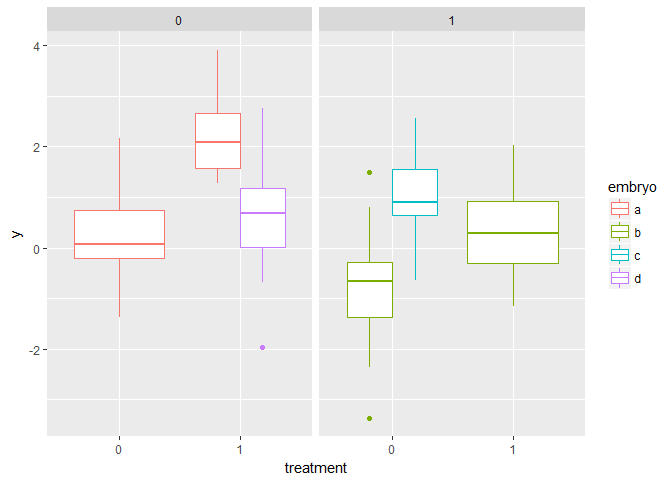
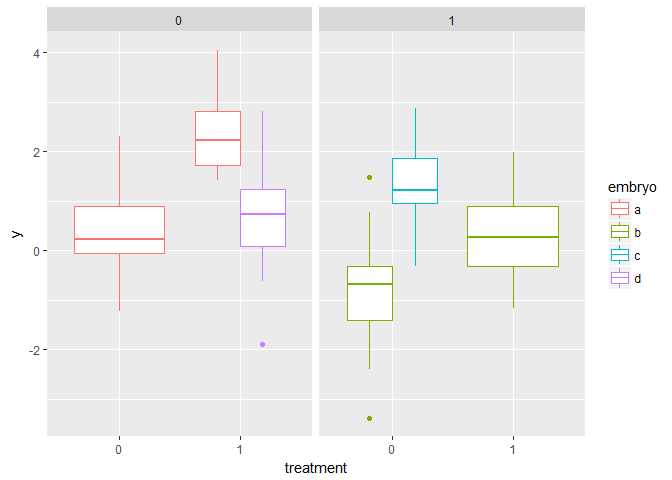
revision, scaled random effects to have mean 0

diff --git a/pseudoreplication.md b/pseudoreplication.md
@@ -6,12 +6,12 @@ Bindoff, A.
 Pseudoreplication and mixed models
 ----------------------------------
 
-We simulate a lab experiment that takes cells from four mouse embryos, and two mothers. Investigators are blinded, and some cells end up having a treatment applied and others do not. The investigator has no knowledge of which embryo (or mother) the cells came from until after the experiment. A measure `y` is observed for each cell (we don't know exactly what `y` is but it's continuous, and normally distributed).
+We simulate a lab experiment that takes cells from four mouse embryos, which are from two mothers. Under blinded conditions, some cells have a treatment applied and the remainder serve as controls. The investigator has no knowledge of which embryo (or mother) the cells came from until after the experiment. A continuous, and normally distributed measure `y` is taken of each cell.
 
 ``` r
 mean.treatment.effect <- 1.5
 sd.treatment <- sd.control <- 1
-random.embryo.effect <- c(0, -1, 1, -0.5)
+random.embryo.effect <- scale(c(0, -1, 1, -0.5))
 random.mother.effect <- 0
 
 df <- data.frame(embryo = factor(c(rep("a", n*10),
@@ -52,9 +52,11 @@ xtabs(~ embryo + treatment, df)
     ##      c 10  0
     ##      d  0 20
 
-The first issue we can see is that cells from embryo `c` were allocated only to the control condition, and cells from embryo `d` were allocated only to the treatment condition so any effect of `treatment` might be confounded by `embryo` for these observations. If we consider only embryo `a` and `b`, we have an unbalanced design. Additionally, there is a strong random effect for embryos `b` and `c`. We're missing information about the `treatment` effect of `c` so this might affect our estimate of the random effect of embryo `c`.
+The first issue we can see is that cells from embryo `c` were allocated only to the control condition, and cells from embryo `d` were allocated only to the treatment condition so any effect of `treatment` might be confounded by `embryo` for these observations (or perhaps the effect of `embryo` might be confounded by `treatment`?) If we consider only embryo `a` and `b`, we have an unbalanced design. Additionally, there is a strong effect for embryos `b` and `c`. We call this effect a 'random' effect because these embryos are drawn at random from the population, and we might want to estimate the *distribution* of `embryo` effects, rather than a 'fixed' effect (which we can control or choose).
 
-Fortunately, we know what the 'true' effects of interest are, so all that remains is to specify our model correctly and see how good the resulting estimates are. Ignoring the true number of replicates and random effects, we fit a general linear model as if each observation is a true replicate -
+Fortunately, we know what the 'true' effects of interest are, so all that remains is to specify our model correctly and see how good the resulting estimates are.
+
+Ignoring the true number of replicates and random effects, we fit a general linear model as if each observation is a true replicate -
 
     ## 
     ## Call:
@@ -62,53 +64,53 @@ Fortunately, we know what the 'true' effects of interest are, so all that remain
     ## 
     ## Residuals:
     ##     Min      1Q  Median      3Q     Max 
-    ## -3.2649 -0.8682 -0.0676  0.8259  2.9415 
+    ## -3.3932 -0.8896 -0.0616  0.9461  3.0271 
     ## 
     ## Coefficients:
-    ##             Estimate Std. Error t value Pr(>|t|)    
-    ## (Intercept) -0.09926    0.20193  -0.492 0.624407    
-    ## treatment1   1.06265    0.28558   3.721 0.000372 ***
+    ##             Estimate Std. Error t value Pr(>|t|)   
+    ## (Intercept) 0.004351   0.211830   0.021  0.98366   
+    ## treatment1  1.019877   0.299572   3.404  0.00105 **
     ## ---
     ## Signif. codes:  0 '***' 0.001 '**' 0.01 '*' 0.05 '.' 0.1 ' ' 1
     ## 
-    ## Residual standard error: 1.277 on 78 degrees of freedom
-    ## Multiple R-squared:  0.1508, Adjusted R-squared:  0.1399 
-    ## F-statistic: 13.85 on 1 and 78 DF,  p-value: 0.0003725
+    ## Residual standard error: 1.34 on 78 degrees of freedom
+    ## Multiple R-squared:  0.1294, Adjusted R-squared:  0.1182 
+    ## F-statistic: 11.59 on 1 and 78 DF,  p-value: 0.00105
 
-The effect of treatment is estimated as -0.09926, 1.06265, and we know the 'true' treatment effect, 1.5 with zero intercept. We can't trust the p-value because the summary tells us it was calculated using one source of error variance and more Degrees of Freedom than possible with the number of replicates we have.
+The effect of treatment is estimated as 0.00435, 1.01988, and we know the 'true' treatment effect, 1.5 with zero intercept. We can't trust the p-value because the summary tells us it was calculated using one source of error variance and more Degrees of Freedom than possible with the number of replicates we have.
 
-A better model would recognise that we have just four replicates, and that most of our observations are only useful in estimating the within-embryo variance (or within-mother variance?). If we had a balanced design would could estimate this within-embryo variance using ANOVA, but that's not the case here. We can, however, use mixed models quite happily.
+A better model would recognise that we have just four embryos, and that our many observations tell us a lot about within-embryo variance (or within-mother variance?), but much less about between-embryo variance. If we had a balanced design would could use information from all available sources of variance, with the correct degrees of freedom, using ANOVA - but that's not the case here. We can, however, use mixed models quite happily. A correctly specified mixed model will estimate random and fixed effects appropriately, recognising that observations from the same embryo are not independent.
 
     ## Linear mixed model fit by REML ['merModLmerTest']
     ## Formula: y ~ treatment + (1 | mother/embryo)
     ##    Data: df
-    ## REML criterion at convergence: 244.4218
+    ## REML criterion at convergence: 245.2103
     ## Random effects:
-    ##  Groups        Name        Std.Dev. 
-    ##  embryo:mother (Intercept) 9.254e-01
-    ##  mother        (Intercept) 1.389e-07
-    ##  Residual                  1.053e+00
+    ##  Groups        Name        Std.Dev.
+    ##  embryo:mother (Intercept) 1.068   
+    ##  mother        (Intercept) 0.000   
+    ##  Residual                  1.053   
     ## Number of obs: 80, groups:  embryo:mother, 4; mother, 2
     ## Fixed Effects:
     ## (Intercept)   treatment1  
-    ##    -0.08081      1.45745
+    ##     0.04156      1.46691
 
 The estimated treatment effect is within an acceptable range. How well were the random effects estimated?
 
-    ##      estimated true
-    ## a:0  0.5770238  0.0
-    ## b:1 -0.7925593 -1.0
-    ## c:1  0.9342800  1.0
-    ## d:0 -0.7187445 -0.5
+    ##      estimated      true
+    ## a:0  0.6042717  0.146385
+    ## b:1 -0.9462955 -1.024695
+    ## c:1  1.1394904  1.317465
+    ## d:0 -0.7974665 -0.439155
 
-    ##       estimated true
-    ## 0 -3.192615e-15    0
-    ## 1  3.192615e-15    0
+    ##   estimated true
+    ## 0         0    0
+    ## 1         0    0
 
-The estimated random effects of `embryo` and `mother` are a reasonable representation of reality. Adding a true effect of `mother` -
+Adding a true effect of `mother` -
 
 ``` r
-random.mother.effect <- c(-0.9, 1)
+random.mother.effect <- c(-1, 1)
 
 df$ranef.mo <- c(rnorm(n*10, random.mother.effect[1L], 0.1),
                  rnorm(n*20, random.mother.effect[2L], 0.1),
@@ -126,32 +128,32 @@ ggplot(df, aes(x = treatment, y = y, colour = embryo)) +
     ## Linear mixed model fit by REML ['merModLmerTest']
     ## Formula: y ~ treatment + (1 | mother/embryo)
     ##    Data: df
-    ## REML criterion at convergence: 246.4979
+    ## REML criterion at convergence: 247.1666
     ## Random effects:
     ##  Groups        Name        Std.Dev.
-    ##  embryo:mother (Intercept) 1.131   
-    ##  mother        (Intercept) 1.207   
-    ##  Residual                  1.052   
+    ##  embryo:mother (Intercept) 1.304   
+    ##  mother        (Intercept) 1.252   
+    ##  Residual                  1.051   
     ## Number of obs: 80, groups:  embryo:mother, 4; mother, 2
     ## Fixed Effects:
     ## (Intercept)   treatment1  
-    ##     0.01265      1.43465
+    ##     0.08528      1.44300
 
-The treatment effect is close to the true treatment effect (see "Fixed Effects:" at the bottom of the summary). How well were the random effects estimated?
+The treatment effect is close to the true treatment effect (see "Fixed Effects:" at the bottom of the summary). Comparing the estimated random effects with the 'true' effects -
 
-    ##      estimated true
-    ## a:0  0.3128986  0.0
-    ## b:1 -0.5988472 -1.0
-    ## c:1  1.2165987  1.0
-    ## d:0 -0.9306502 -0.5
+    ##      estimated      true
+    ## a:0  0.2887799  0.146385
+    ## b:1 -0.7031354 -1.024695
+    ## c:1  1.4689098  1.317465
+    ## d:0 -1.0545543 -0.439155
 
     ##    estimated true
-    ## 0 -0.7036494 -0.9
-    ## 1  0.7036494  1.0
+    ## 0 -0.7058169   -1
+    ## 1  0.7058169    1
 
 A question for the brave, why is the estimated random effect of `mother` symmetric? What implications does this have? *(Chapter 11 of "Data Analysis Using Regression and Multilevel/Hierarchical Models" (Gelman & Hill, 2007) discusses the issue of the minimum number of groups for a mixed model).*
 
-Comparing the (definitely incorrect) ANOVA with the mixed effects model (in case you're wondering, we obtain p-values by loading the `lmerTest` package *before* fitting the model with `lmer`) -
+Comparing the (definitely incorrect) ANOVA with the mixed effects model -
 
 ``` r
 anova(m1 <- lm(y ~ treatment, df))
@@ -161,8 +163,8 @@ anova(m1 <- lm(y ~ treatment, df))
     ## 
     ## Response: y
     ##           Df  Sum Sq Mean Sq F value Pr(>F)
-    ## treatment  1   0.247 0.24746  0.1341 0.7152
-    ## Residuals 78 143.956 1.84560
+    ## treatment  1   0.007 0.00682  0.0034 0.9535
+    ## Residuals 78 155.713 1.99632
 
 ``` r
 anova(m2)
@@ -171,13 +173,13 @@ anova(m2)
     ## Analysis of Variance Table of type III  with  Satterthwaite 
     ## approximation for degrees of freedom
     ##           Sum Sq Mean Sq NumDF  DenDF F.value    Pr(>F)    
-    ## treatment 24.498  24.498     1 77.241  22.154 1.086e-05 ***
+    ## treatment 24.687  24.687     1 76.901  22.328 1.017e-05 ***
     ## ---
     ## Signif. codes:  0 '***' 0.001 '**' 0.01 '*' 0.05 '.' 0.1 ' ' 1
 
 We can see that using all of the available information can lead to better estimates, and more power to detect treatment effects. Further, we did not violate the assumption of independence or falsely inflate our p-value with pseudoreplication.
 
-To compare our incorrectly specified general linear model (ANOVA with too many degrees of freedom) and our correctly specified mixed model, we predict a mean and confidence interval for each level of treatment using each model. However, in order to correctly incorporate model uncertainty in the mixed model, we will need to use a procedure known as "bootstrapping" - which requires us to draw many samples from the data (with replacement), making predictions from our model.
+To compare our incorrectly specified general linear model *(ANOVA with too many degrees of freedom)* and our correctly specified mixed model, we predict a mean and confidence interval for each level of treatment using each model. However, in order to correctly incorporate model uncertainty in the mixed model, we will need to use a procedure known as "bootstrapping" - which requires us to draw many samples from the data (with replacement), making predictions from our model.
 
 ``` r
 nsim = 500
@@ -197,4 +199,4 @@ df.new <- cbind(df.new, data.frame(prd))
 
 ![](pseudoreplication_files/figure-markdown_github/unnamed-chunk-9-1.png)
 
-The effect of treatment predicted by bootstrapping is 1.42, which is remarkably close to the simulated treatment effect. Compare this to the treatment effect predicted by the general linear model, 0.11. The confidence interval estimated using the general linear model (in red) is excessively narrow, due to the large number of pseudoreplicates. This neatly highlights the issue of falsely drawing inference from an experiment with such a small number of replicates. Drawing samples from more embryos would give a better estimate of variability due to treatment within the *population*. In fact, although we did not show it here, drawing fewer samples from more replicates is better than more samples from fewer replicates in general.
+The effect of treatment predicted by bootstrapping is 1.42, which is remarkably close to the simulated treatment effect. Compare this to the treatment effect predicted by the general linear model, 0.02. The confidence interval estimated using the general linear model (in red) is excessively narrow, due to the large number of pseudoreplicates. This neatly highlights the issue of falsely drawing inference from an experiment with such a small number of replicates. Drawing samples from more embryos would give a better estimate of variability due to treatment within the *population*. In fact, although we did not show it here, drawing fewer samples from more replicates is better than more samples from fewer replicates in general.
